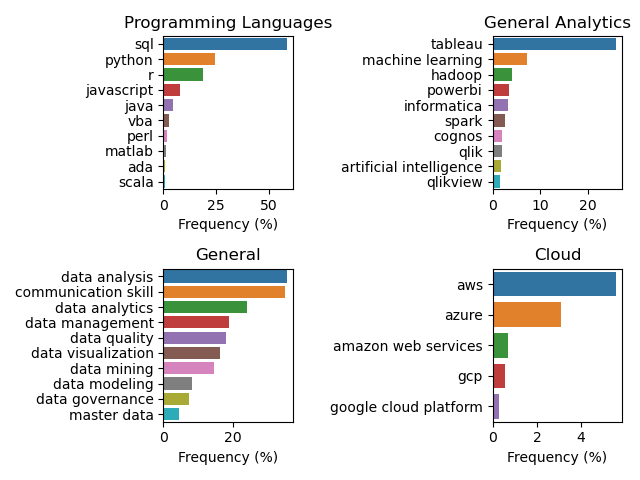
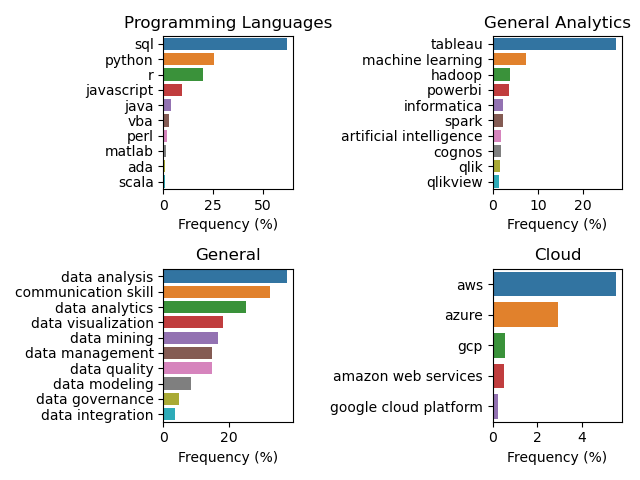
Refine job filtering (stricter settings)

diff --git a/src/ml-test-clustering.py b/src/ml-test-clustering.py
@@ -30,7 +30,7 @@ scientist = res[res['Job Type'] == 'data scientist']
 engineer = res[res['Job Type'] == 'data engineer']
 analyst = res[res['Job Type'] == 'data analyst']
 
-f, ax = plt.subplots(1, 3, sharey=False)
+f, ax = plt.subplots(1, 3, sharey=False, figsize=(10, 4))
 ax[0].hist(scientist['Label'])
 ax[0].set_title('Data Scientist Jobs')
 ax[0].set_xlabel('Label')
@@ -43,4 +43,5 @@ ax[2].hist(analyst['Label'])
 ax[2].set_title('Data Analyst Jobs')
 ax[2].set_xlabel('Label')
 #ax[2].set_ylabel('Number of jobs')
+plt.tight_layout()
 plt.show()

diff --git a/src/job-filtering.py b/src/job-filtering.py
@@ -6,8 +6,8 @@ import sys
 
 # Whether the title should be an exact match, e.g. "data scientist".
 # Or, should we include approximate matches, such as "data scientist, analytics"
-# A value between 0 (most strict) and 2 (least strict, default)
-FILTER_LEVEL = 2
+# A value between 0 (most strict) and 2 (least strict)
+FILTER_LEVEL = 1
 
 if len(sys.argv) != 2:
     print('Wrong number of arguments.')
